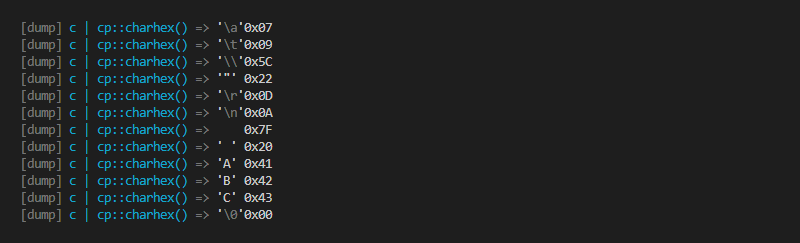
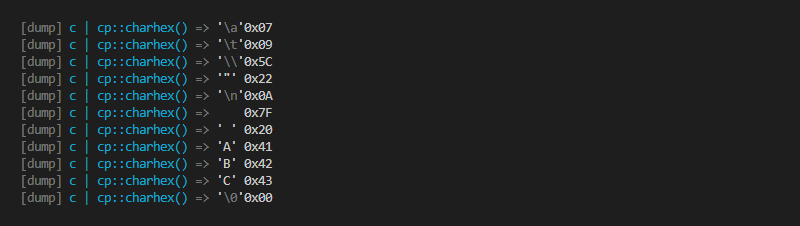
update README.md

Changed region(s): [[0.0312, 0.0929, 0.3438, 0.9292]]

diff --git a/README.md b/README.md
@@ -846,8 +846,8 @@ For escaped characters, the 'escaped_char' color is used.
 [See Full Example Code](./readme/formatting-with-manipulators.cpp)
 
 ```cpp
-cpp_dump("\a\t\\\"\r\n\x7f need to be escaped.");
-cpp_dump("\a\t\\\"\r\n\x7f need to be escaped." | cp::stresc());
+cpp_dump("\a\t\\\"\n\x7f need to be escaped.");
+cpp_dump("\a\t\\\"\n\x7f need to be escaped." | cp::stresc());
 ```
 
 ![manipulator-stresc.png](./readme/manipulator-stresc.png)
@@ -863,7 +863,7 @@ The width of their string representation is fixed.
 [See Full Example Code](./readme/formatting-with-manipulators.cpp)
 
 ```cpp
-for (auto c : "\a\t\\\"\r\n\x7f ABC") cpp_dump(c | cp::charhex());
+for (auto c : "\a\t\\\"\n\x7f ABC") cpp_dump(c | cp::charhex());
 ```
 
 ![manipulator-charhex.png](./readme/manipulator-charhex.png)
